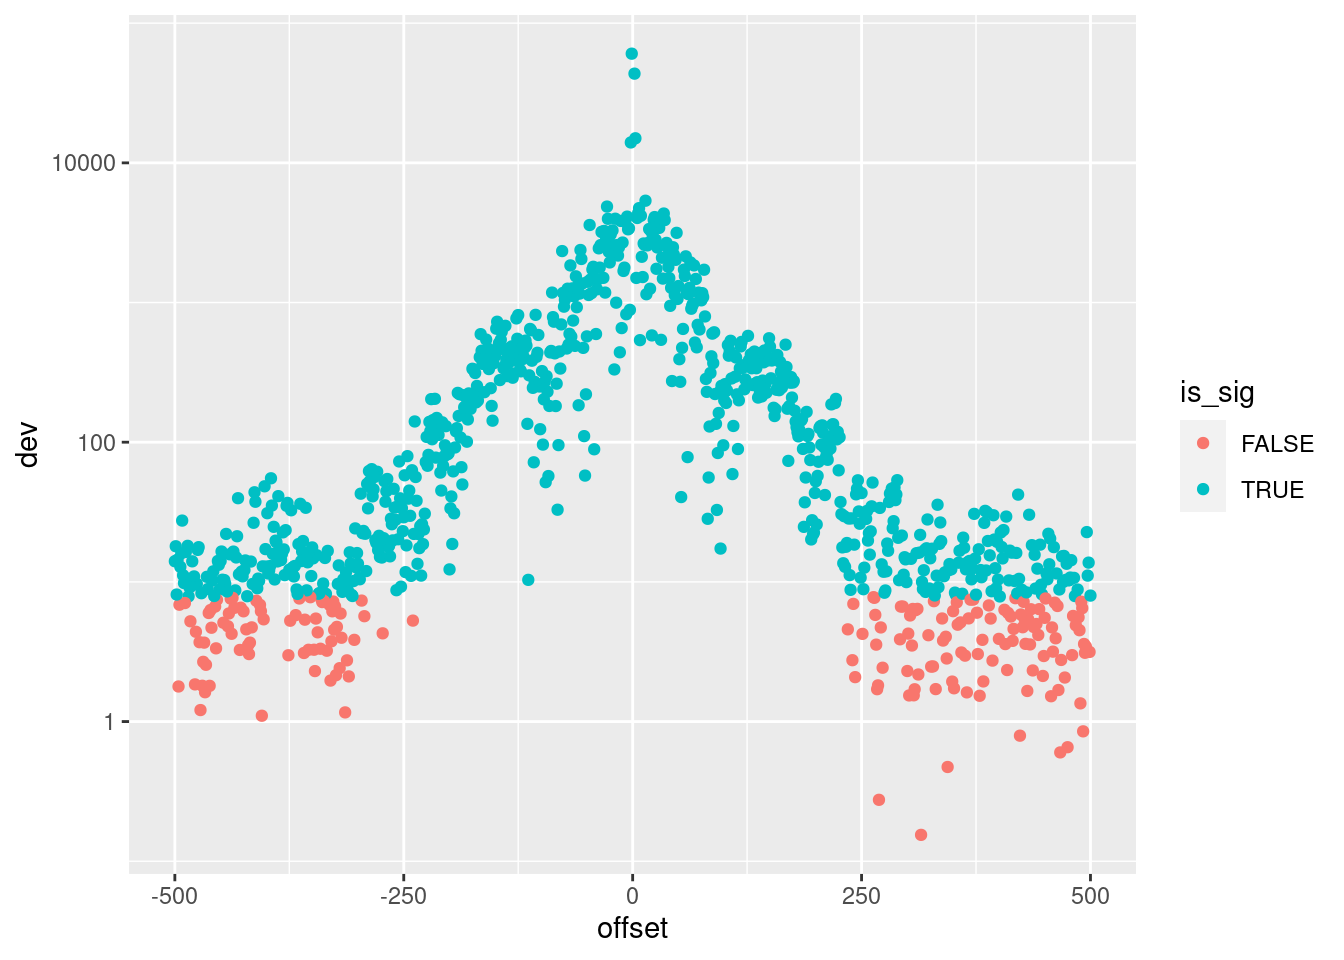
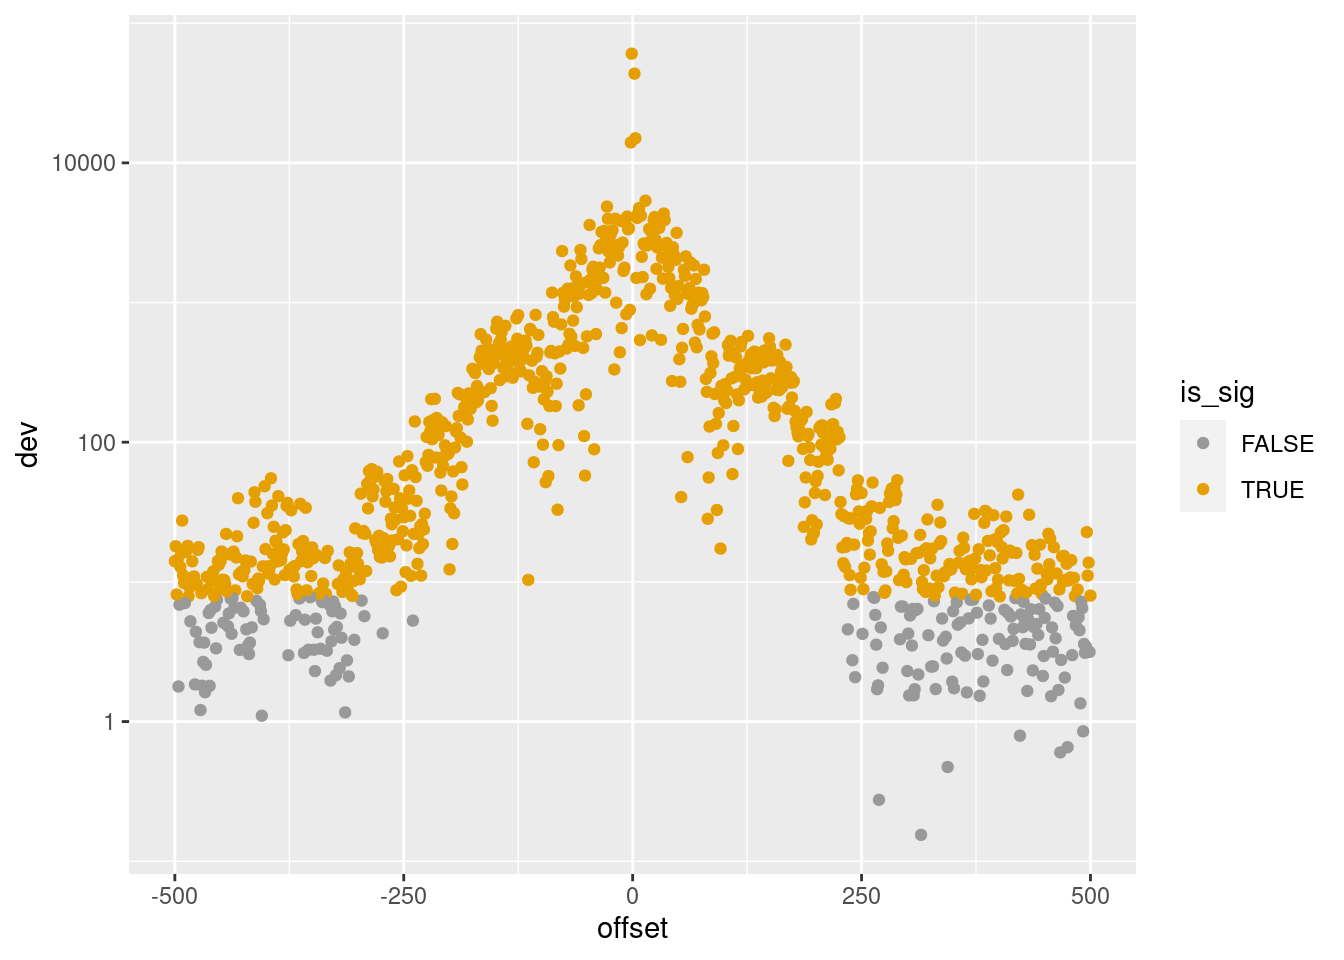
Build site.

diff --git a/docs/NYGC_near_v_far.html b/docs/NYGC_near_v_far.html
@@ -384,7 +384,7 @@ class="glyphicon glyphicon-ok text-success" aria-hidden="true"></span>
 <div class="tab-content">
 <div id="summary" class="tab-pane fade in active">
 <p>
-<strong>Last updated:</strong> 2023-11-09
+<strong>Last updated:</strong> 2023-11-10
 </p>
 <p>
 <strong>Checks:</strong> <span
@@ -515,15 +515,15 @@ project makes it easier to run your code on other machines.</p>
 <div class="panel panel-default">
 <div class="panel-heading">
 <p class="panel-title">
-<a data-toggle="collapse" data-parent="#workflowr-checks" href="#strongRepositoryversionstrongahrefhttpsgithubcomtheandybLSCItree0ee43667de26ac603403eb96cb2996426a18abb5targetblank0ee4366a">
+<a data-toggle="collapse" data-parent="#workflowr-checks" href="#strongRepositoryversionstrongahrefhttpsgithubcomtheandybLSCItreee23cd4afbaaa1be0204c5f62e5d13f55cd426e04targetblanke23cd4aa">
 <span class="glyphicon glyphicon-ok text-success"
 aria-hidden="true"></span> <strong>Repository version:</strong>
-<a href="https://github.com/theandyb/LSCI/tree/0ee43667de26ac603403eb96cb2996426a18abb5" target="_blank">0ee4366</a>
+<a href="https://github.com/theandyb/LSCI/tree/e23cd4afbaaa1be0204c5f62e5d13f55cd426e04" target="_blank">e23cd4a</a>
 </a>
 </p>
 </div>
 <div
[2 lines of base64/hex data omitted]
 class="panel-collapse collapse">
 <div class="panel-body">
 <p>
@@ -533,7 +533,7 @@ reproducibility.
 </p>
 <p>
 The results in this page were generated with repository version
-<a href="https://github.com/theandyb/LSCI/tree/0ee43667de26ac603403eb96cb2996426a18abb5" target="_blank">0ee4366</a>.
+<a href="https://github.com/theandyb/LSCI/tree/e23cd4afbaaa1be0204c5f62e5d13f55cd426e04" target="_blank">e23cd4a</a>.
 See the <em>Past versions</em> tab to see a history of the changes made
 to the R Markdown and HTML files.
 </p>
@@ -610,6 +610,40 @@ Message
 Rmd
 </td>
 <td>
+<a href="https://github.com/theandyb/LSCI/blob/e23cd4afbaaa1be0204c5f62e5d13f55cd426e04/analysis/NYGC_near_v_far.Rmd" target="_blank">e23cd4a</a>
+</td>
+<td>
+Andy Beck
+</td>
+<td>
+2023-11-10
+</td>
+<td>
+wflow_publish("analysis/NYGC_near_v_far.Rmd")
+</td>
+</tr>
+<tr>
+<td>
+html
+</td>
+<td>
+<a href="https://rawcdn.githack.com/theandyb/LSCI/f19a326bca8038fe9424127c53094af0351f5bbe/docs/NYGC_near_v_far.html" target="_blank">f19a326</a>
+</td>
+<td>
+Andy Beck
+</td>
+<td>
+2023-11-09
+</td>
+<td>
+Build site.
+</td>
+</tr>
+<tr>
+<td>
+Rmd
+</td>
+<td>
 <a href="https://github.com/theandyb/LSCI/blob/0ee43667de26ac603403eb96cb2996426a18abb5/analysis/NYGC_near_v_far.Rmd" target="_blank">0ee4366</a>
 </td>
 <td>
@@ -637,31 +671,146 @@ wflow_publish("analysis/NYGC_near_v_far.Rmd")
 <pre class="r"><code>subtype &lt;- &quot;AT_GC&quot;
 df_min &lt;- read_subtype_pop_res(&quot;ALL&quot;, subtype, &quot;.min&quot;)
 df_max &lt;- read_subtype_pop_res(&quot;ALL&quot;, subtype, &quot;.max&quot;)
+df &lt;- read_subtype_pop_res(&quot;ALL&quot;, subtype)
 
 df_min$type &lt;- &quot;min&quot;
 df_max$type &lt;- &quot;max&quot;
 
-df &lt;- bind_rows(df_min, df_max) %&gt;%
-  arrange(abs(offset))
+#df &lt;- bind_rows(df_min, df_max) %&gt;%
+#  arrange(abs(offset))
 
 df %&gt;%
   mutate(is_sig = dev &gt; qchisq(p=.05, df=3, lower.tail=FALSE)) %&gt;%
-  ggplot(aes(x = offset, y = dev, color = is_sig, shape = type)) +
-  geom_point() + geom_line() +
-  scale_y_log10()</code></pre>
+  ggplot(aes(x = offset, y = dev, color = is_sig)) +
+  geom_point() +
+  scale_y_log10() +
+  scale_color_manual(values=cbPalette)</code></pre>
 <p><img src="figure/NYGC_near_v_far.Rmd/unnamed-chunk-2-1.png" width="672" style="display: block; margin: auto;" /></p>
+<p>
+<button type="button" class="btn btn-default btn-xs btn-workflowr btn-workflowr-fig" data-toggle="collapse" data-target="#fig-unnamed-chunk-2-1">
+Past versions of unnamed-chunk-2-1.png
+</button>
+</p>
+<div id="fig-unnamed-chunk-2-1" class="collapse">
+<div class="table-responsive">
+<table class="table table-condensed table-hover">
+<thead>
+<tr>
+<th>
+Version
+</th>
+<th>
+Author
+</th>
+<th>
+Date
+</th>
+</tr>
+</thead>
+<tbody>
+<tr>
+<td>
+<a href="https://github.com/theandyb/LSCI/blob/f19a326bca8038fe9424127c53094af0351f5bbe/docs/figure/NYGC_near_v_far.Rmd/unnamed-chunk-2-1.png" target="_blank">f19a326</a>
+</td>
+<td>
+Andy Beck
+</td>
+<td>
+2023-11-09
+</td>
+</tr>
+</tbody>
+</table>
+</div>
+</div>
 <pre class="r"><code>df_min %&gt;%
   mutate(is_sig = dev &gt; qchisq(p=.05, df=3, lower.tail=FALSE)) %&gt;%
   ggplot(aes(x = offset, y = dev, color = is_sig)) +
   geom_point() +
-  scale_y_log10()</code></pre>
+  scale_y_log10() +
+  scale_color_manual(values=cbPalette)</code></pre>
 <p><img src="figure/NYGC_near_v_far.Rmd/unnamed-chunk-2-2.png" width="672" style="display: block; margin: auto;" /></p>
+<p>
+<button type="button" class="btn btn-default btn-xs btn-workflowr btn-workflowr-fig" data-toggle="collapse" data-target="#fig-unnamed-chunk-2-2">
+Past versions of unnamed-chunk-2-2.png
+</button>
+</p>
+<div id="fig-unnamed-chunk-2-2" class="collapse">
+<div class="table-responsive">
+<table class="table table-condensed table-hover">
+<thead>
+<tr>
+<th>
+Version
+</th>
+<th>
+Author
+</th>
+<th>
+Date
+</th>
+</tr>
+</thead>
+<tbody>
+<tr>
+<td>
+<a href="https://github.com/theandyb/LSCI/blob/f19a326bca8038fe9424127c53094af0351f5bbe/docs/figure/NYGC_near_v_far.Rmd/unnamed-chunk-2-2.png" target="_blank">f19a326</a>
+</td>
+<td>
+Andy Beck
+</td>
+<td>
+2023-11-09
+</td>
+</tr>
+</tbody>
+</table>
+</div>
+</div>
 <pre class="r"><code>df_max %&gt;%
   mutate(is_sig = dev &gt; qchisq(p=.05, df=3, lower.tail=FALSE)) %&gt;%
   ggplot(aes(x = offset, y = dev, color = is_sig)) +
   geom_point() +
-  scale_y_log10()</code></pre>
+  scale_y_log10() +
+  scale_color_manual(values=cbPalette)</code></pre>
 <p><img src="figure/NYGC_near_v_far.Rmd/unnamed-chunk-2-3.png" width="672" style="display: block; margin: auto;" /></p>
+<p>
+<button type="button" class="btn btn-default btn-xs btn-workflowr btn-workflowr-fig" data-toggle="collapse" data-target="#fig-unnamed-chunk-2-3">
+Past versions of unnamed-chunk-2-3.png
+</button>
+</p>
+<div id="fig-unnamed-chunk-2-3" class="collapse">
+<div class="table-responsive">
+<table class="table table-condensed table-hover">
+<thead>
+<tr>
+<th>
+Version
+</th>
+<th>
+Author
+</th>
+<th>
+Date
+</th>
+</tr>
+</thead>
+<tbody>
+<tr>
+<td>
+<a href="https://github.com/theandyb/LSCI/blob/f19a326bca8038fe9424127c53094af0351f5bbe/docs/figure/NYGC_near_v_far.Rmd/unnamed-chunk-2-3.png" target="_blank">f19a326</a>
+</td>
+<td>
+Andy Beck
+</td>
+<td>
+2023-11-09
+</td>
+</tr>
+</tbody>
+</table>
+</div>
+</div>
 <div id="cpg-gpg" class="section level3">
 <h3>CpG &gt; GpG</h3>
 <pre class="r"><code>subtype &lt;- &quot;cpg_GC_AT&quot;
@@ -679,20 +828,134 @@ df_min %&gt;%
   mutate(is_sig = dev &gt; qchisq(p=.05, df=3, lower.tail=FALSE)) %&gt;%
   ggplot(aes(x = offset, y = dev, color = is_sig)) +
   geom_point() +
-  scale_y_log10()</code></pre>
+  scale_y_log10() +
+  scale_color_manual(values=cbPalette)</code></pre>
 <p><img src="figure/NYGC_near_v_far.Rmd/unnamed-chunk-3-1.png" width="672" style="display: block; margin: auto;" /></p>
+<p>
+<button type="button" class="btn btn-default btn-xs btn-workflowr btn-workflowr-fig" data-toggle="collapse" data-target="#fig-unnamed-chunk-3-1">
+Past versions of unnamed-chunk-3-1.png
+</button>
+</p>
+<div id="fig-unnamed-chunk-3-1" class="collapse">
+<div class="table-responsive">
+<table class="table table-condensed table-hover">
+<thead>
+<tr>
+<th>
+Version
+</th>
+<th>
+Author
+</th>
+<th>
+Date
+</th>
+</tr>
+</thead>
+<tbody>
+<tr>
+<td>
+<a href="https://github.com/theandyb/LSCI/blob/f19a326bca8038fe9424127c53094af0351f5bbe/docs/figure/NYGC_near_v_far.Rmd/unnamed-chunk-3-1.png" target="_blank">f19a326</a>
+</td>
+<td>
+Andy Beck
+</td>
+<td>
+2023-11-09
+</td>
+</tr>
+</tbody>
+</table>
+</div>
+</div>
 <pre class="r"><code>df_max %&gt;%
   mutate(is_sig = dev &gt; qchisq(p=.05, df=3, lower.tail=FALSE)) %&gt;%
   ggplot(aes(x = offset, y = dev, color = is_sig)) +
   geom_point() +
-  scale_y_log10()</code></pre>
+  scale_y_log10() +
+  scale_color_manual(values=cbPalette)</code></pre>
 <p><img src="figure/NYGC_near_v_far.Rmd/unnamed-chunk-3-2.png" width="672" style="display: block; margin: auto;" /></p>
+<p>
+<button type="button" class="btn btn-default btn-xs btn-workflowr btn-workflowr-fig" data-toggle="collapse" data-target="#fig-unnamed-chunk-3-2">
+Past versions of unnamed-chunk-3-2.png
+</button>
+</p>
+<div id="fig-unnamed-chunk-3-2" class="collapse">
+<div class="table-responsive">
+<table class="table table-condensed table-hover">
+<thead>
+<tr>
+<th>
+Version
+</th>
+<th>
+Author
+</th>
+<th>
+Date
+</th>
+</tr>
+</thead>
+<tbody>
+<tr>
+<td>
+<a href="https://github.com/theandyb/LSCI/blob/f19a326bca8038fe9424127c53094af0351f5bbe/docs/figure/NYGC_near_v_far.Rmd/unnamed-chunk-3-2.png" target="_blank">f19a326</a>
+</td>
+<td>
+Andy Beck
+</td>
+<td>
+2023-11-09
+</td>
+</tr>
+</tbody>
+</table>
+</div>
+</div>
 <pre class="r"><code>df %&gt;%
   mutate(is_sig = dev &gt; qchisq(p=.05, df=3, lower.tail=FALSE)) %&gt;%
   ggplot(aes(x = offset, y = dev, color = is_sig)) +
   geom_point() +
-  scale_y_log10()</code></pre>
+  scale_y_log10() +
+  scale_color_manual(values=cbPalette)</code></pre>
 <p><img src="figure/NYGC_near_v_far.Rmd/unnamed-chunk-3-3.png" width="672" style="display: block; margin: auto;" /></p>
+<p>
+<button type="button" class="btn btn-default btn-xs btn-workflowr btn-workflowr-fig" data-toggle="collapse" data-target="#fig-unnamed-chunk-3-3">
+Past versions of unnamed-chunk-3-3.png
+</button>
+</p>
+<div id="fig-unnamed-chunk-3-3" class="collapse">
+<div class="table-responsive">
+<table class="table table-condensed table-hover">
+<thead>
+<tr>
+<th>
+Version
+</th>
+<th>
+Author
+</th>
+<th>
+Date
+</th>
+</tr>
+</thead>
+<tbody>
+<tr>
+<td>
+<a href="https://github.com/theandyb/LSCI/blob/f19a326bca8038fe9424127c53094af0351f5bbe/docs/figure/NYGC_near_v_far.Rmd/unnamed-chunk-3-3.png" target="_blank">f19a326</a>
+</td>
+<td>
+Andy Beck
+</td>
+<td>
+2023-11-09
+</td>
+</tr>
+</tbody>
+</table>
+</div>
+</div>
 <br>
 <p>
 <button type="button" class="btn btn-default btn-workflowr btn-workflowr-sessioninfo" data-toggle="collapse" data-target="#workflowr-sessioninfo" style="display: block;">
